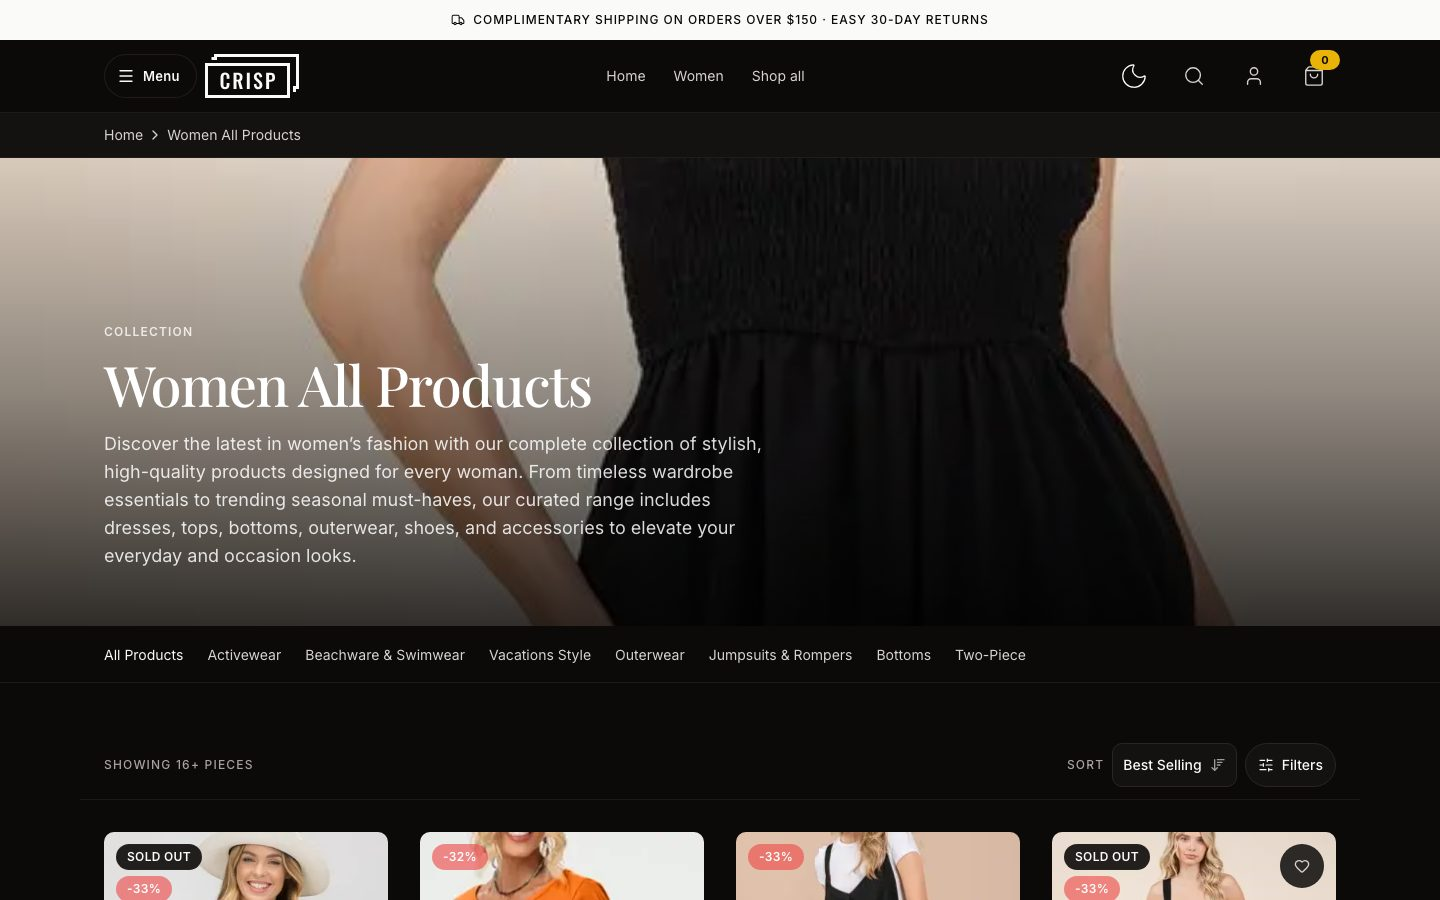
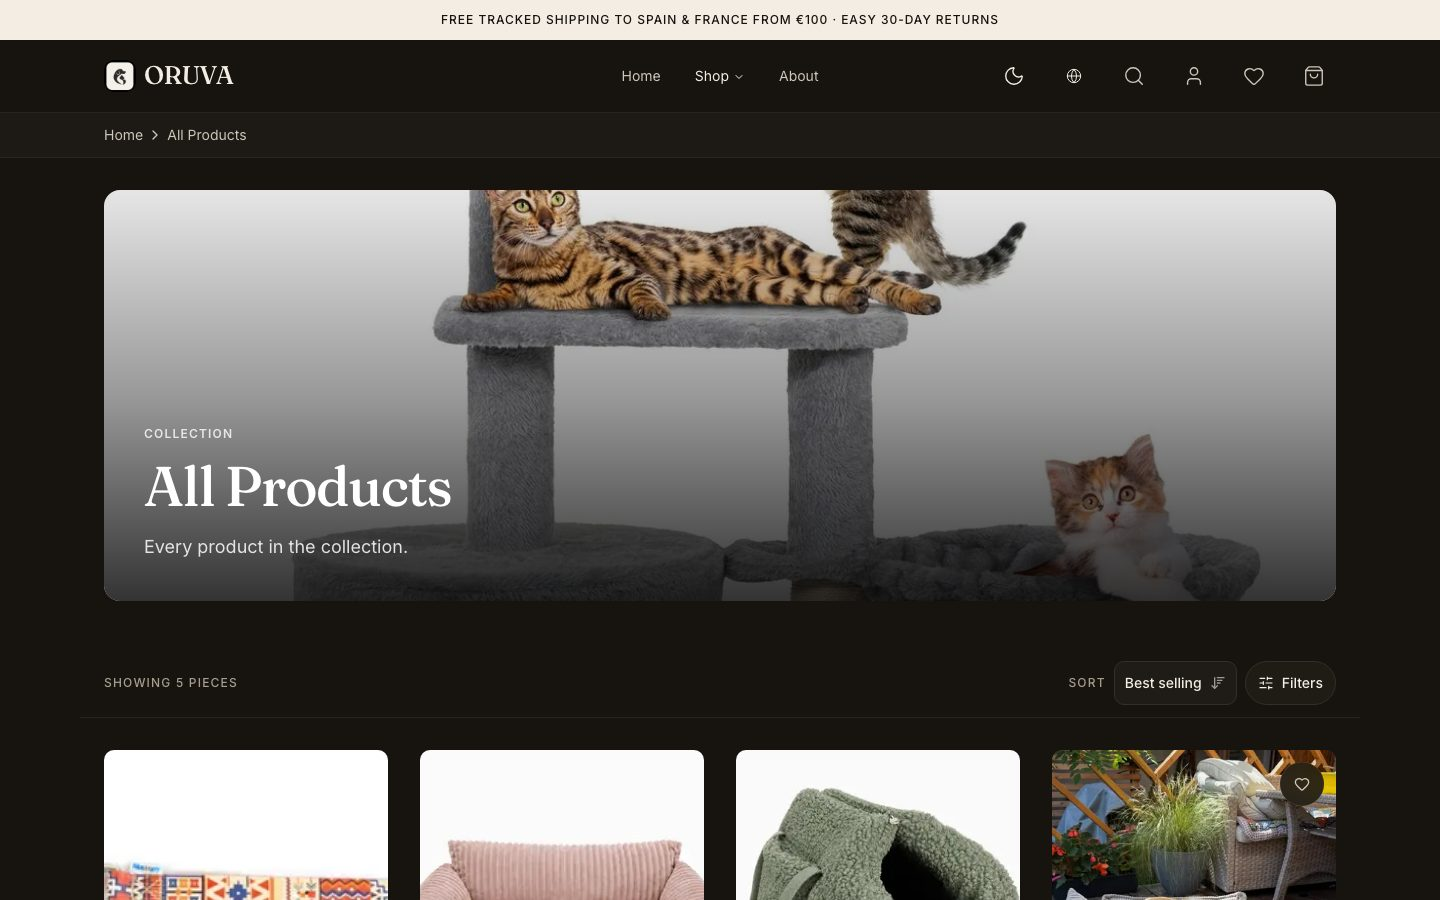
Update README and project images; enhance screenshot script for i18n support
- Updated README to reflect the new base URL for screenshots and clarified instructions for i18n sites.
- Replaced project images with updated versions for the modern e-commerce platform.
- Modified the screenshot capture script to support locale-prefixed URLs for internationalization.
- Adjusted ProjectCard tests to improve clarity and added a condition for displaying the source link based on repository visibility.
- Enhanced structured data handling for GitHub links in project metadata.
- Updated project descriptions and features in the content configuration for better accuracy and detail.

diff --git a/src/config/content/projects.ts b/src/config/content/projects.ts
@@ -29,6 +29,7 @@ export type ProjectCaseStudy = {
 export type Project = {
   slug: string;
   description: string;
+  /** Public repository links. Leave empty for private projects; the source button is then hidden. */
   githubLink: string[];
   /** Your role on the project (e.g. "Lead frontend"). Optional. */
   role?: string;
@@ -54,135 +55,142 @@ const myEcommerceProject: Project = {
   role: 'Design & development (solo)',
   timeline: '2026',
   description:
-    'A production-shaped storefront built on Next.js 16 and the Shopify Storefront API. Covers the full shopper journey — collections, product pages, a persistent cart, customer accounts, orders, wishlist and predictive search — with every GraphQL operation typed end-to-end.',
+    'ORUVA is a live pet-lifestyle store for dogs and cats, shipping European-made essentials to Spain and France. I designed and built the whole storefront on Next.js 16 and Shopify: a three-language catalog, persistent cart, customer accounts, wishlist and predictive search, with content managed in Shopify rather than in code.',
   highlights: [
+    'Live at oruva.store, in English, Spanish and French',
+    'Brand copy, menus, policies and page content editable in Shopify, no redeploy needed',
     'Storefront + Admin APIs typed end-to-end with GraphQL Code Generator',
-    'Cart, auth, account, order history, wishlist and predictive search',
-    'Lighthouse accessibility & best-practices 100 on desktop and mobile',
+    'Automated accessibility (axe, WCAG 2.1 AA) and add-to-cart smoke tests in Playwright',
   ],
   caseStudy: {
     tagline:
-      'A full e-commerce storefront on the Shopify Storefront API — catalog, cart, customer accounts, orders and search, typed end-to-end.',
+      'A live pet shop for the Spanish and French market: a headless Shopify storefront built solo, from brand to deployment.',
     overview: [
-      'A complete storefront built on Next.js 16 (App Router) and the Shopify Storefront API, with a Shopify Admin API integration for delegated operations. The goal was to mirror the depth of a real storefront — not stop at a product grid and a cart.',
-      'It follows the full shopper journey: browse and filter collections, open a product, manage a persistent cart, sign in, track orders, keep a wishlist and recover an account. Content, contact and legal pages are part of the same system.',
+      'ORUVA started as a template storefront and became a real store: a premium European pet-lifestyle brand selling beds, carriers, feeders and toys for dogs and cats. The storefront is built on Next.js 16 (App Router, Cache Components) and the Shopify Storefront API, with checkout handled by Shopify.',
+      'I owned it end to end: brand positioning, storefront design, the Shopify data model, the code, caching, deployment and monitoring. The store runs in English, Spanish and French, prices include VAT, and delivery is tracked to Spain and France.',
+      'The source code is private now that it is a commercial project, so this page walks through the decisions instead. I am happy to go through the code on a call.',
     ],
     facts: [
-      { label: 'App routes', value: '23' },
-      { label: 'GraphQL contracts', value: '11' },
-      { label: 'UI components', value: '145' },
-      { label: 'Lighthouse a11y', value: '100' },
+      { label: 'Languages', value: '3' },
+      { label: 'Page routes', value: '24' },
+      { label: 'Unit-test files', value: '75' },
+      { label: 'Delivery markets', value: 'ES · FR' },
     ],
     features: [
       {
-        title: 'Collections & merchandising',
+        title: 'Catalog & product pages',
         description:
-          'Index and per-collection pages driven by Shopify menus and handles, with paginated product grids (16 per page) and filter parsing.',
+          'Collections with sorting, filters and pagination. Product pages with variant selection, an image gallery, VAT-inclusive pricing and live stock status.',
       },
       {
-        title: 'Product detail',
+        title: 'Persistent cart & delivery estimate',
         description:
-          'Variant selection, pricing, inventory awareness and product media, wired to the Storefront API with ISR for fast repeat views.',
-      },
-      {
-        title: 'Persistent cart',
-        description:
-          'Cart state in React Context, synced to the Shopify cart and persisted across sessions so items survive reloads and redeploys.',
+          'A cart kept in sync with the Shopify cart across sessions, with a delivery estimator by country and a free-shipping threshold. Payment happens on Shopify checkout.',
       },
       {
         title: 'Predictive search',
         description:
-          'Instant suggestions backed by a dedicated API route that queries the Storefront API as the shopper types.',
+          'Instant suggestions from a dedicated API route that queries the Storefront API as the shopper types, announced to screen readers through a live region.',
       },
       {
         title: 'Customer accounts',
         description:
-          'Register, login, password recovery and reset, plus a signed-in account dashboard — all through Server Actions.',
-      },
-      {
-        title: 'Orders & address book',
-        description:
-          'Order history and full address CRUD (list, create, edit) against the Shopify Customer API.',
+          'Sign-in through the Shopify Customer Account API, with an account area for orders and saved addresses.',
       },
       {
         title: 'Wishlist',
-        description: 'Saved products tied to the customer account, with add/remove flows.',
+        description:
+          'Saved products with optimistic add/remove, so the heart responds instantly and rolls back cleanly if the server disagrees.',
       },
       {
-        title: 'Content & legal',
+        title: 'Three languages',
         description:
-          'A contact form (Nodemailer + durable rate limiting) alongside privacy, terms, refund and shipping pages.',
+          'English, Spanish and French with locale-prefixed routes, translated interface text and translated Shopify content.',
       },
       {
-        title: 'Dark mode & consent',
+        title: 'Newsletter & contact',
         description:
-          'Theme switching via next-themes that follows system preference, plus a cookie-consent flow gating Google Tag Manager.',
+          'A double opt-in newsletter and a contact form, both validated with Zod and rate limited.',
+      },
+      {
+        title: 'Legal & consent',
+        description:
+          'Cookie consent that gates analytics, plus privacy, terms, refund, shipping, legal-notice and cookie pages managed in Shopify.',
+      },
+      {
+        title: 'Dark & light themes',
+        description: 'A theme switch that follows the system preference and remembers the choice.',
       },
     ],
     technical: [
       {
+        title: 'Content lives in Shopify, not in env vars',
+        description:
+          'Hero, promo bar, FAQ, size chart, navigation and brand identity are Shopify metaobjects read through cached getters. Environment variables hold only secrets and deployment config, so a brand change never needs a rebuild. CLI scripts seed and sync that content.',
+      },
+      {
+        title: 'Cache Components with webhook-driven purging',
+        description:
+          'Pages are prerendered with `use cache` and tagged. Shopify webhooks, verified with an HMAC secret, invalidate exactly the tags that changed, so the catalog stays fresh without giving up static speed.',
+      },
+      {
+        title: 'Failures are never cached',
+        description:
+          'Cached getters throw instead of returning an empty fallback, so a short Shopify outage cannot poison the cache for hours. Fallbacks live in uncached wrappers, and the cart estimator sits in its own Suspense island.',
+      },
+      {
         title: 'Typed GraphQL end-to-end',
         description:
-          'GraphQL Code Generator turns the Shopify Storefront and Admin schemas into a typed SDK, so every query and mutation is checked at build time. Codegen runs as part of the build.',
+          'GraphQL Code Generator turns the Storefront and Admin schemas into a typed SDK, and CI fails if the generated output drifts from the committed files.',
       },
       {
-        title: 'Storefront API + Admin API',
+        title: 'OAuth done properly',
         description:
-          'Catalog, cart and customer flows use the Storefront API; selected operations use the Admin API through short-lived (24h) delegate tokens rather than exposing admin scope to the client.',
+          'Customer sign-in uses the authorization-code flow with PKCE (S256) and a state check. A proxy renews sessions and handles auth redirects.',
       },
       {
-        title: 'Server-first data, actions for mutations',
+        title: 'Optimistic UI without stale rollbacks',
         description:
-          'Server Components fetch through the SDK while forms and mutations go through Server Actions validated with Zod, keeping credentials off the client.',
-      },
-      {
-        title: 'Targeted ISR',
-        description:
-          'Per-resource revalidation windows (search 5 min, product 1 h, Shopify data 10 min) keep the catalog fresh without giving up static speed.',
+          'Cheap toggles like the wishlist use `useOptimistic`. The cart uses request-id sequencing, so the latest server answer always wins over a slower earlier one.',
       },
       {
         title: 'Hardened delivery',
         description:
-          'Nonce-based Content-Security-Policy, robots rules that keep cart/account/search out of the index, and an explicit trust boundary for the Shopify buyer IP.',
-      },
-      {
-        title: 'Serverless-safe rate limiting',
-        description:
-          'Contact submissions are throttled with Upstash Redis so limits hold across serverless instances instead of resetting on every cold start.',
+          'Content-Security-Policy, HSTS and cross-origin headers, Zod-validated Server Actions, Upstash Redis rate limiting that holds across serverless instances, and store HTML sanitized before rendering.',
       },
     ],
     responsibilities: [
-      'Architected the App Router structure, data-fetching and revalidation strategy',
-      'Integrated the Shopify Storefront and Admin GraphQL APIs end-to-end',
-      'Built the component system on Radix UI + shadcn/ui primitives',
-      'Implemented accessibility, testing and delivery hardening',
-      'Owned deployment, environment validation and SEO plumbing',
+      'Defined the brand positioning and designed the storefront UI',
+      'Architected the App Router structure, caching and revalidation strategy',
+      'Modelled the Shopify data contract (metaobjects, menus, policies) and built the tooling to seed and sync it',
+      'Integrated the Storefront, Admin and Customer Account APIs',
+      'Set up deployment on Vercel, environment validation, error monitoring and SEO plumbing',
     ],
     quality: [
-      'Unit tests across cart, auth and wishlist services, Shopify helpers, env validation and utils',
-      'Strict TypeScript with generated GraphQL types — no hand-written API shapes',
-      'ESLint and Stylelint in CI, plus build-time codegen',
-      'Lighthouse accessibility and best-practices 100 on desktop and mobile',
-      'Metadata, sitemap, robots and canonical URLs wired per route',
+      '75 Vitest files covering server actions, services, auth, rate limiting, caching and Shopify helpers, with enforced coverage thresholds',
+      'Playwright suites: axe accessibility checks (WCAG 2.1 AA, light and dark) over the main routes, and an add-to-cart smoke test',
+      'Strict TypeScript with generated GraphQL types and no hand-written API shapes',
+      'ESLint, Stylelint and Prettier, plus a codegen drift check in CI',
+      'Sentry error reporting, with metadata, sitemap and robots rules generated for every language',
     ],
     gallery: [
       {
         src: '/images/projects/modern-ecommerce-platform/collections.jpg',
-        alt: 'Collection index page with a paginated product grid',
+        alt: 'ORUVA collections page with Cats, Dogs and All Products tiles',
       },
       {
         src: '/images/projects/modern-ecommerce-platform/collection.jpg',
-        alt: 'A single collection page with filterable products',
+        alt: 'The All Products collection with sorting and filter controls',
       },
       {
         src: '/images/projects/modern-ecommerce-platform/product.jpg',
-        alt: 'Product detail page with variants, pricing and specifications',
+        alt: 'Product page for a teddy dog carrier bag with gallery, VAT-inclusive price and description',
       },
     ],
   },
   images: {
     thumbnail: {
-      alt: 'Screenshot of the Shopify storefront homepage',
+      alt: 'ORUVA homepage: "Better products for better everyday moments together" beside a cat on a grey cat tree',
       src: '/images/projects/modern-ecommerce-platform/home.jpg',
     },
   },
@@ -191,19 +199,24 @@ const myEcommerceProject: Project = {
     { name: 'React 19' },
     { name: 'TypeScript' },
     { name: 'Shopify Storefront API' },
+    { name: 'Shopify Customer Account API' },
     { name: 'Shopify Admin API' },
     { name: 'GraphQL' },
     { name: 'GraphQL Code Generator' },
+    { name: 'next-intl' },
     { name: 'Tailwind CSS 4' },
     { name: 'Radix UI' },
     { name: 'shadcn/ui' },
     { name: 'Server Actions' },
     { name: 'Zod' },
     { name: 'Upstash Redis' },
+    { name: 'Playwright' },
+    { name: 'Vercel' },
   ],
-  title: 'Modern E-Commerce Platform',
-  websiteLink: 'https://nextjs-shopify-storefront-demo-kevinsauvages-projects.vercel.app/',
-  githubLink: ['https://github.com/kevinsauvage/nextjs-shopify-storefront'],
+  title: 'ORUVA — Pet Shop E-Commerce',
+  websiteLink: 'https://oruva.store/',
+  // The repository is private, so there is no public source link.
+  githubLink: [],
 };
 
 export const projects: Project[] = [myEcommerceProject];

diff --git a/src/components/features/home/ProjectCard.test.tsx b/src/components/features/home/ProjectCard.test.tsx
@@ -10,7 +10,7 @@ vi.mock('@/lib/analytics', () => ({ trackEvent: vi.fn() }));
 const project = projects[0] as Project;
 
 describe('ProjectCard', () => {
-  it('links to the case study, live site and source', () => {
+  it('links to the case study and the live site', () => {
     render(<ProjectCard project={project} index={0} />);
 
     expect(screen.getByRole('link', { name: /read case study/i })).toHaveAttribute(
@@ -21,9 +21,23 @@ describe('ProjectCard', () => {
       'href',
       project.websiteLink
     );
+  });
+
+  it('shows a source link only when the repository is public', () => {
+    const { rerender } = render(<ProjectCard project={{ ...project, githubLink: [] }} index={0} />);
+
+    expect(screen.queryByRole('link', { name: /source code/i })).not.toBeInTheDocument();
+
+    rerender(
+      <ProjectCard
+        project={{ ...project, githubLink: ['https://github.com/example/repo'] }}
+        index={0}
+      />
+    );
+
     expect(screen.getByRole('link', { name: /source code/i })).toHaveAttribute(
       'href',
-      project.githubLink[0]
+      'https://github.com/example/repo'
     );
   });
 

diff --git a/src/config/content/sections.ts b/src/config/content/sections.ts
@@ -64,7 +64,7 @@ export const sections = {
       galleryTitle: 'Product walkthrough',
       ctaTitle: 'Want to see it live?',
       ctaDescription:
-        'The full storefront is deployed and open to explore — browse the catalog, add to cart and sign in.',
+        'The store is live: browse the catalog, switch language and add to cart. The source code is private, so I am happy to walk through it on a call.',
       backCta: 'Back to portfolio',
     },
   },

diff --git a/src/components/shared/ProjectStructuredData.tsx b/src/components/shared/ProjectStructuredData.tsx
@@ -26,7 +26,7 @@ const ProjectStructuredData = async ({ project }: { project: Project }) => {
     url,
     author: { '@type': 'Person', name: PERSON_NAME, url: SITE_URL },
     keywords: project.technologies.map(({ name }) => name).join(', '),
-    sameAs: project.githubLink,
+    ...(project.githubLink.length > 0 ? { sameAs: project.githubLink } : {}),
     ...(project.caseStudy?.tagline ? { abstract: project.caseStudy.tagline } : {}),
   };
 

diff --git a/src/lib/seo-schemas.ts b/src/lib/seo-schemas.ts
@@ -104,7 +104,7 @@ export const projectsSchema = {
       name: project.title,
       description: project.description,
       url: project.websiteLink,
-      sameAs: project.githubLink,
+      ...(project.githubLink.length > 0 ? { sameAs: project.githubLink } : {}),
       keywords: project.technologies.map(technology => technology.name).join(', '),
     },
   })),

diff --git a/README.md b/README.md
@@ -91,10 +91,10 @@ npm run screenshots  # capture project screenshots into public/images/projects
 ### Project screenshots
 
 Portfolio images are generated locally with Playwright and served from `public/` (no Cloudinary
-upload). Point it at the deployed demo and re-run when the project changes:
+upload). Point it at the live site (with the locale prefix for i18n sites) and re-run when the project changes:
 
 ```bash
-SCREENSHOT_BASE_URL=https://nextjs-shopify-storefront-demo-kevinsauvages-projects.vercel.app npm run screenshots
+SCREENSHOT_BASE_URL=https://oruva.store/en npm run screenshots
 ```
 
 It crawls the demo for the home, collections index, first collection and first product page, clears
